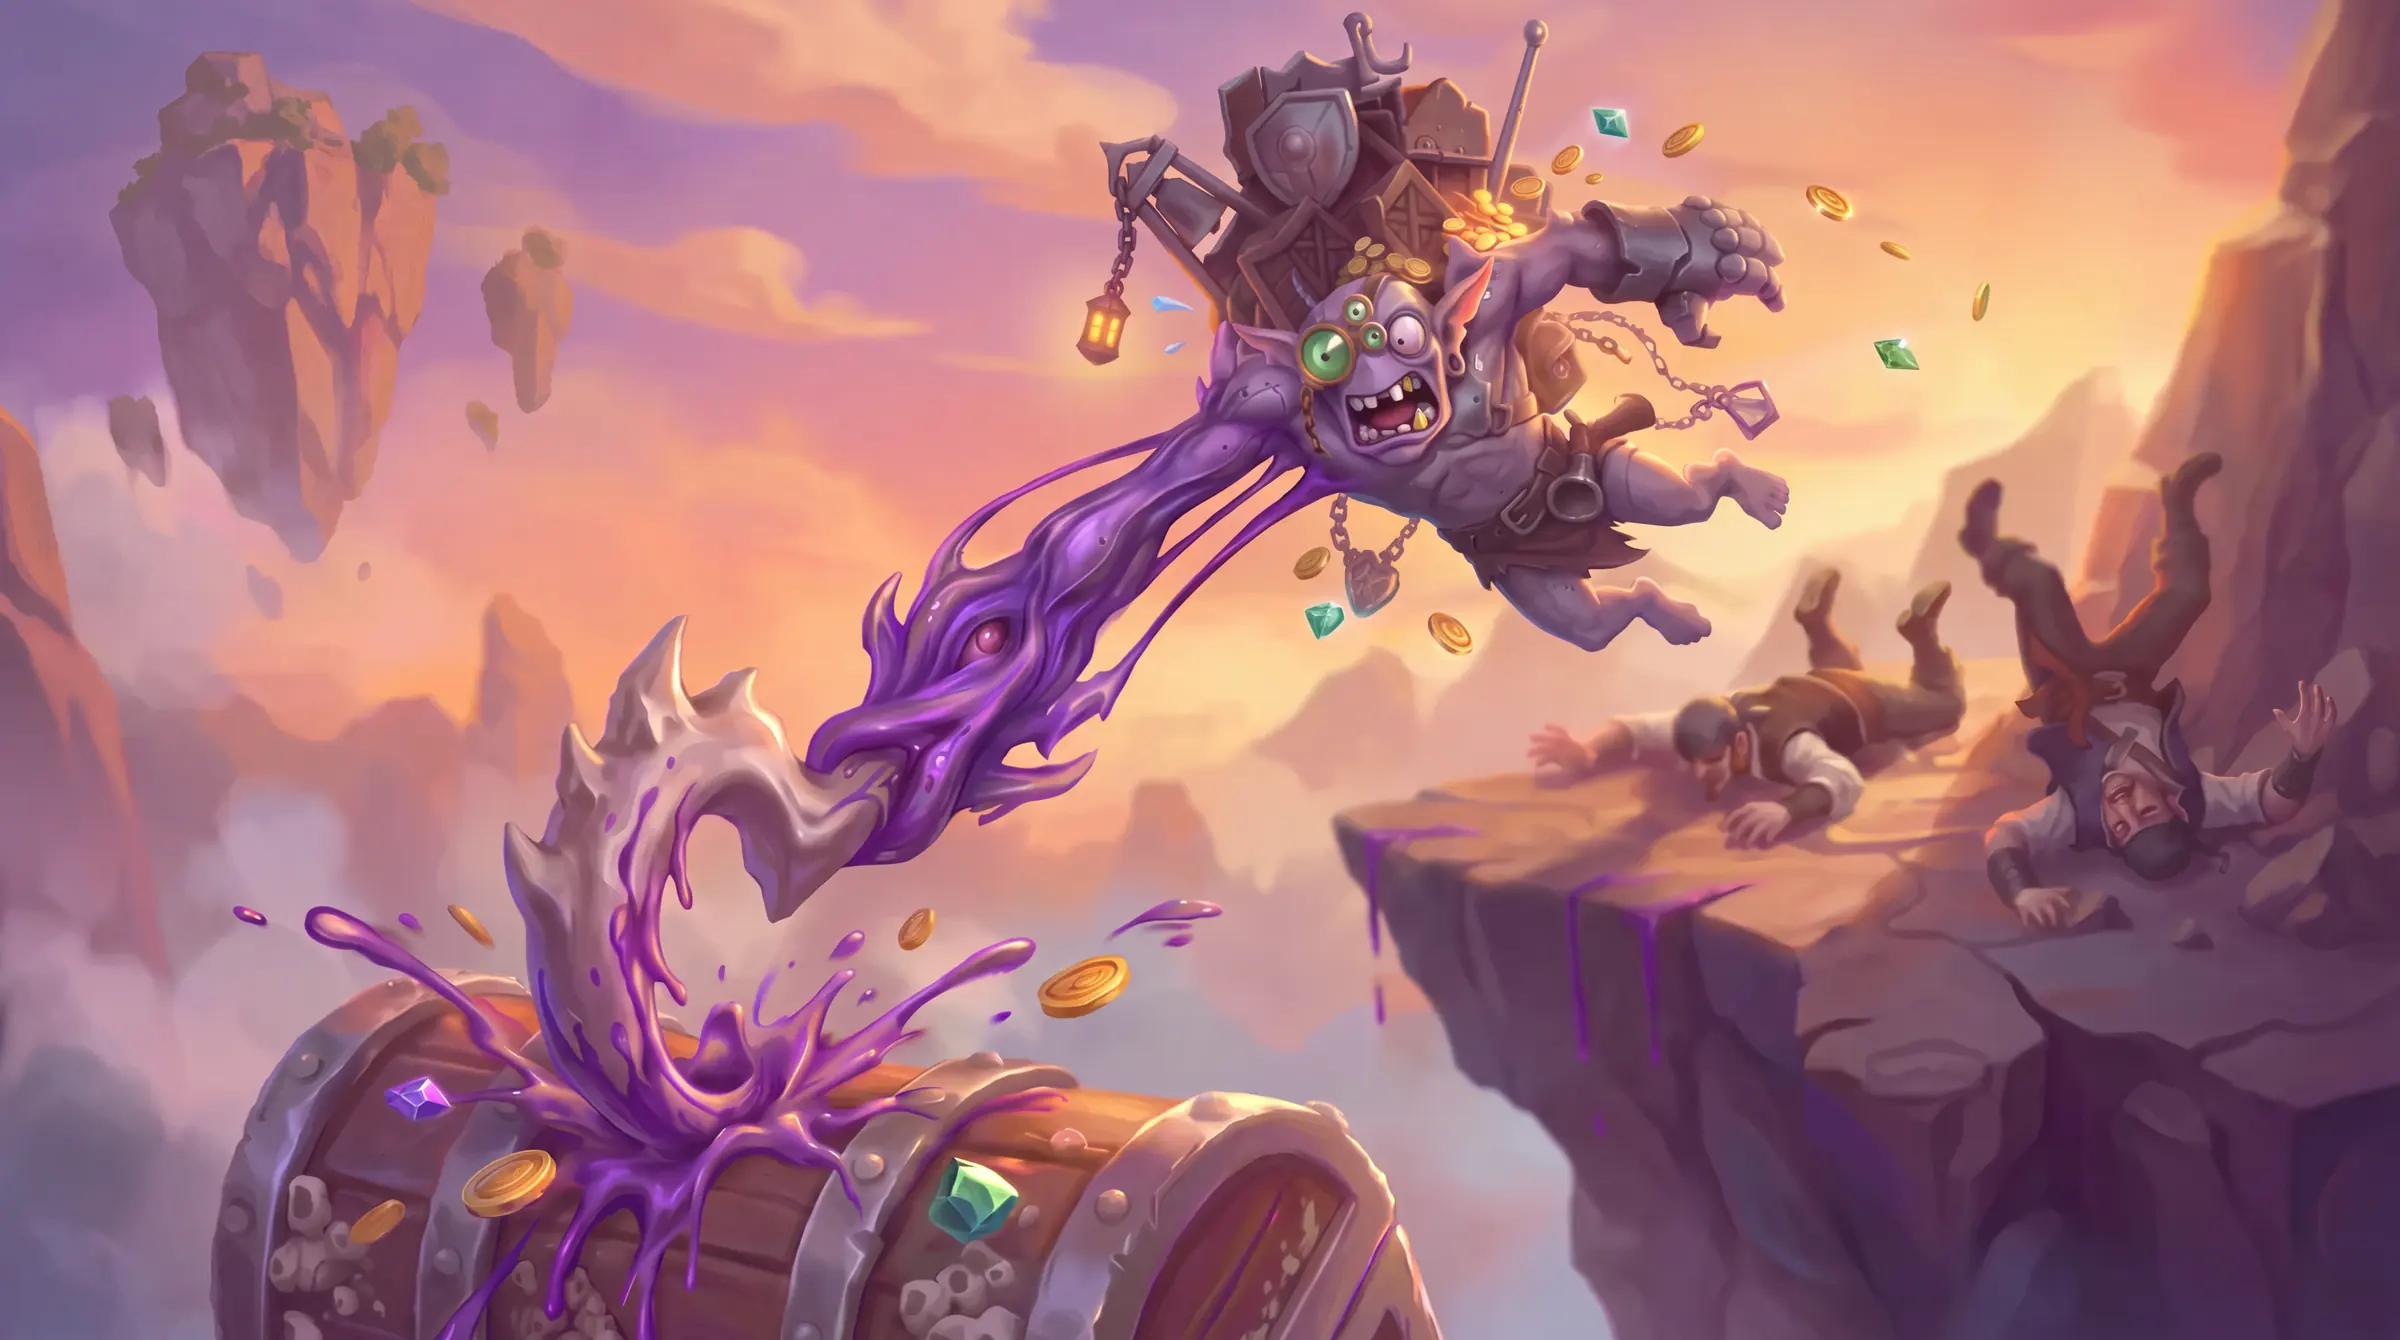
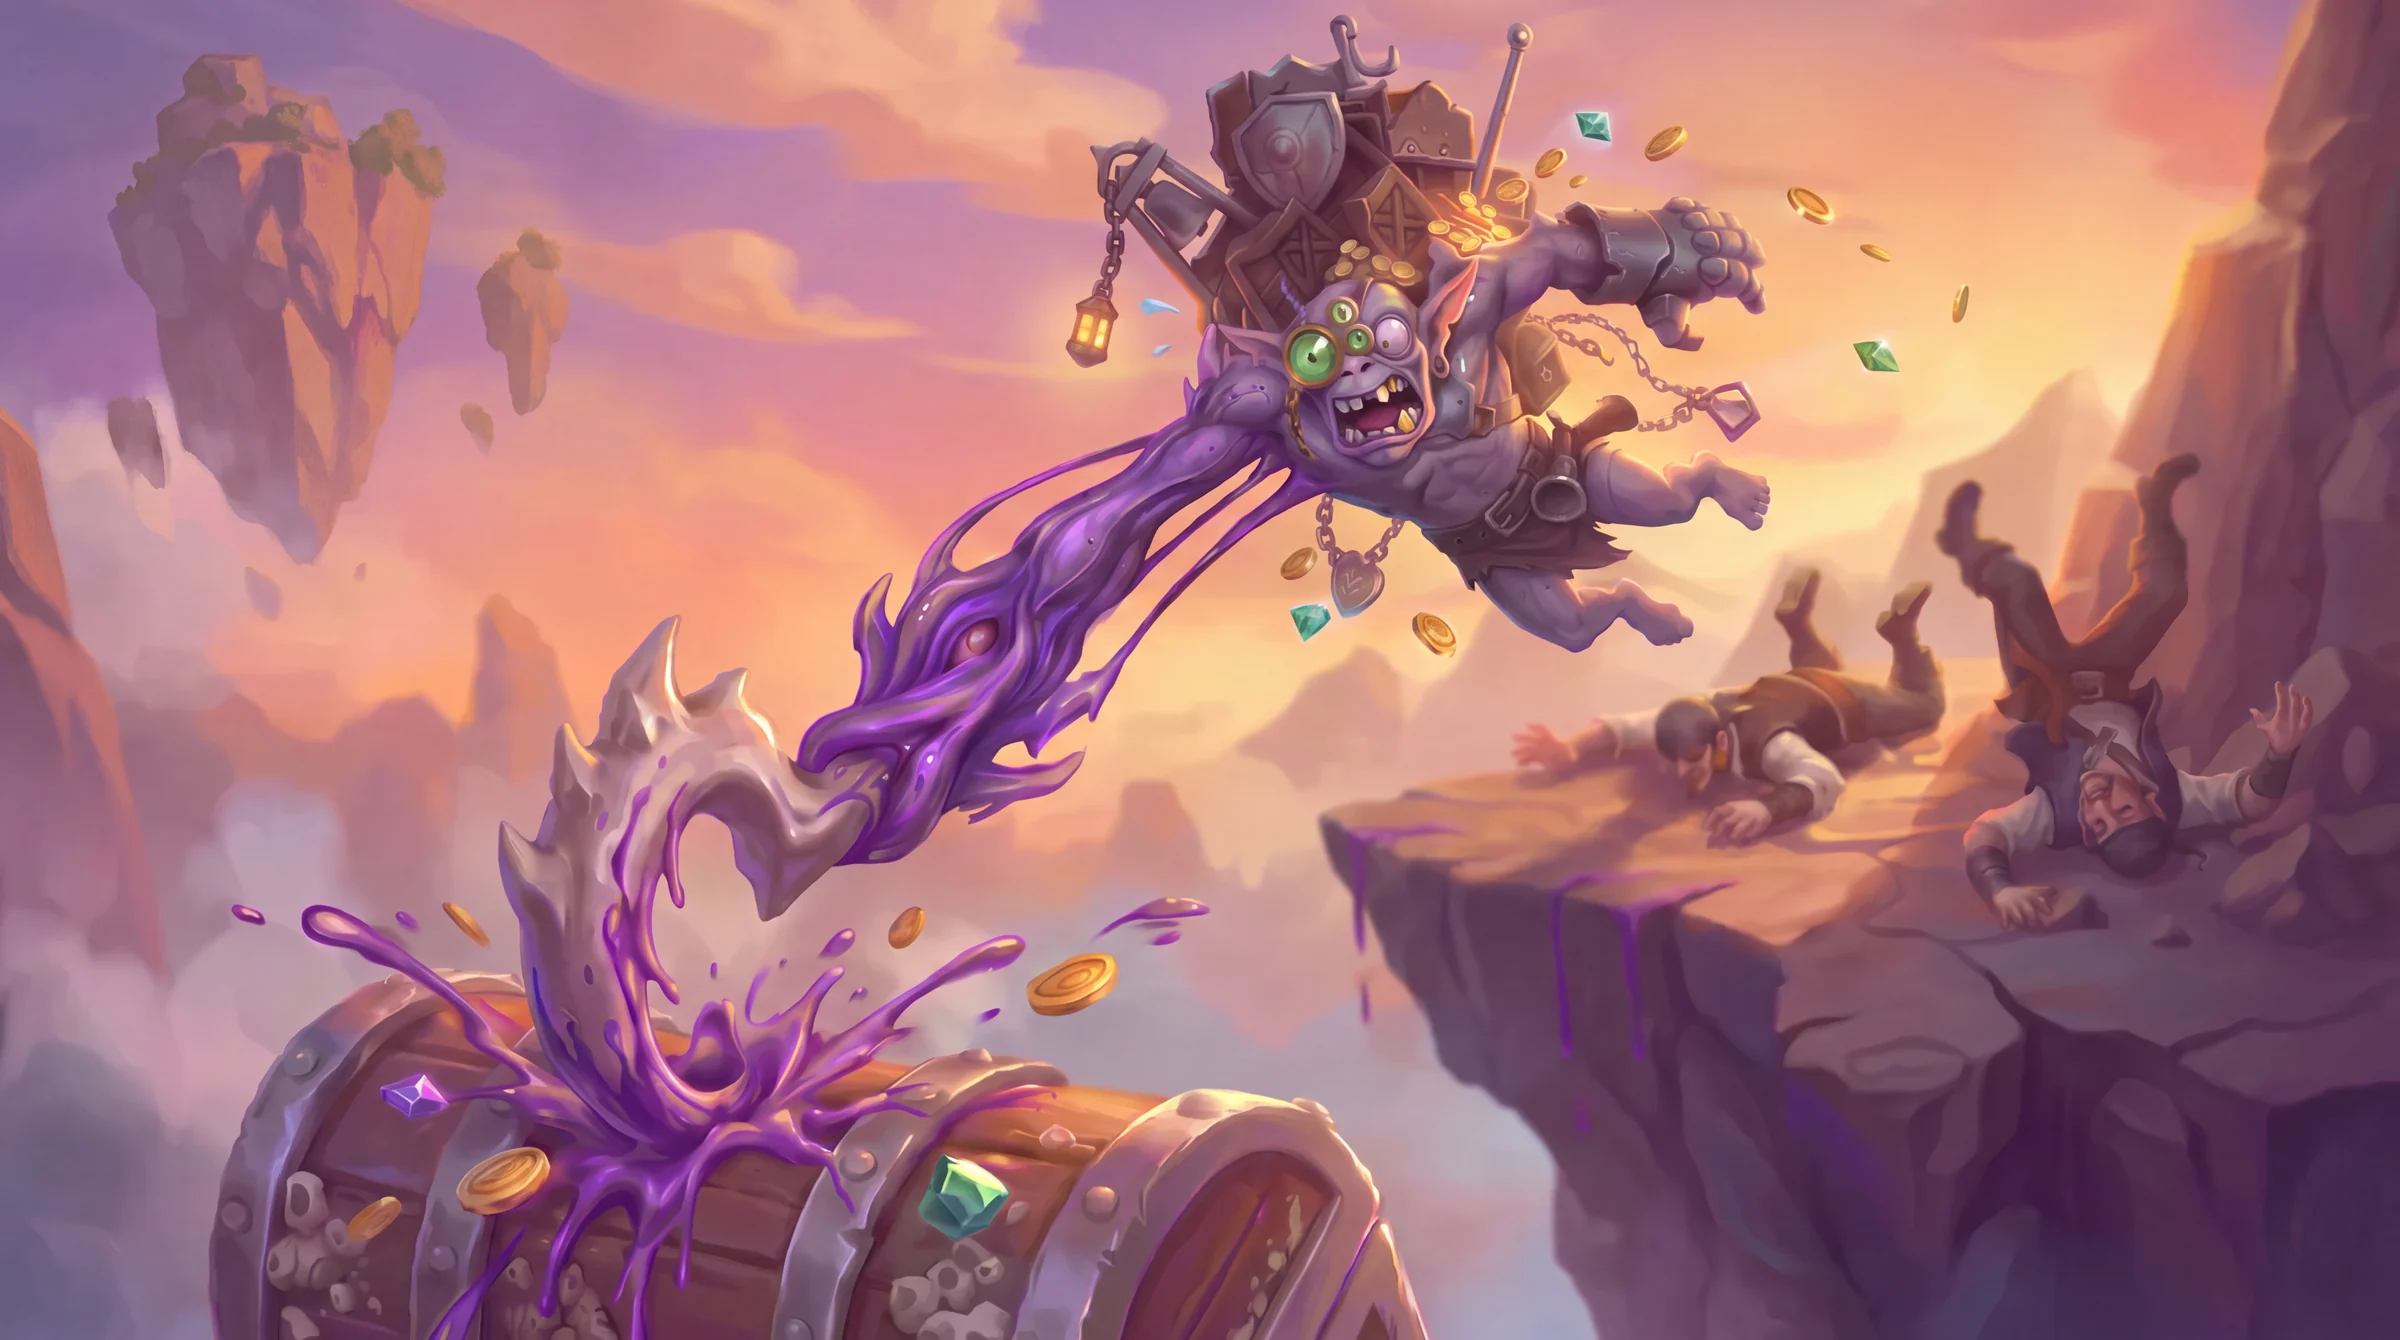
New Grimble splash
Claude-Session: https://claude.ai/code/session_015vSSPmpJoF22Rm1LS1od6V

diff --git a/presskit.html b/presskit.html
@@ -11,7 +11,7 @@
 <link rel="apple-touch-icon" href="/assets/img/apple-touch-icon.png">
 <meta property="og:title" content="Project Boki press kit">
 <meta property="og:image" content="https://projectboki.com/assets/img/og.jpg?v=5">
-<link rel="stylesheet" href="assets/style.css?v=136">
+<link rel="stylesheet" href="assets/style.css?v=137">
 <link rel="canonical" href="https://projectboki.com/presskit.html">
 <link rel="manifest" href="/site.webmanifest">
 </head>
@@ -75,7 +75,7 @@
           <a href="assets/img/hunters/cinder-2400.webp" target="_blank"><img src="assets/img/hunters/cinder-960.webp" alt="Cinder splash art" loading="lazy"><span class="pk-cap">Cinder</span></a>
           <a href="assets/img/hunters/tarek-2400.webp" target="_blank"><img src="assets/img/hunters/tarek-960.webp" alt="Tenzo splash art" loading="lazy"><span class="pk-cap">Tenzo</span></a>
           <a href="assets/img/hunters/ryzz-2400.webp" target="_blank"><img src="assets/img/hunters/ryzz-960.webp" alt="Sparkle splash art" loading="lazy"><span class="pk-cap">Sparkle</span></a>
-          <a href="assets/img/hunters/grimble-2400.webp?v=2026-11-08b" target="_blank"><img src="assets/img/hunters/grimble-960.webp?v=2026-11-08b" alt="Grimble splash art" loading="lazy"><span class="pk-cap">Grimble</span></a>
+          <a href="assets/img/hunters/grimble-2400.webp?v=2026-11-09a" target="_blank"><img src="assets/img/hunters/grimble-960.webp?v=2026-11-09a" alt="Grimble splash art" loading="lazy"><span class="pk-cap">Grimble</span></a>
           <a href="assets/img/hunters/pip-2400.webp" target="_blank"><img src="assets/img/hunters/pip-960.webp" alt="Meeko splash art" loading="lazy"><span class="pk-cap">Meeko</span></a>
           <a href="assets/img/hunters/sable-2400.webp?v=2026-11-08c" target="_blank"><img src="assets/img/hunters/sable-960.webp?v=2026-11-08c" alt="Sable splash art" loading="lazy"><span class="pk-cap">Sable</span></a>
           <a href="assets/img/hunters/lisette-2400.webp" target="_blank"><img src="assets/img/hunters/lisette-960.webp" alt="Lace splash art" loading="lazy"><span class="pk-cap">Lace</span></a>
@@ -117,6 +117,6 @@
   <div class="consent-b"><button class="btn btn-glass btn-sm" type="button" data-no>Decline</button><button class="btn btn-solid btn-sm" type="button" data-yes>Accept</button></div>
 </div>
 
-<script src="assets/site.js?v=121"></script>
+<script src="assets/site.js?v=122"></script>
 </body>
 </html>

diff --git a/index.html b/index.html
@@ -21,7 +21,7 @@
 <link rel="preload" href="assets/fonts/LilitaOne.woff2" as="font" type="font/woff2" crossorigin>
 <link rel="preload" as="image" href="assets/img/wordmark-1280.webp" imagesrcset="assets/img/wordmark-640.webp 640w, assets/img/wordmark-1280.webp 1280w, assets/img/wordmark-2000.webp 2000w" imagesizes="(max-width: 720px) 90vw, 720px">
 
-<link rel="stylesheet" href="assets/style.css?v=136">
+<link rel="stylesheet" href="assets/style.css?v=137">
 <script>
   // Hold the hero until the display font is in, so nothing jumps on load.
   (function (d) {
@@ -232,6 +232,6 @@
   <symbol id="i-play" viewBox="0 0 24 24"><path d="M7 4.5v15a1 1 0 0 0 1.5.86l12.4-7.5a1 1 0 0 0 0-1.72L8.5 3.64A1 1 0 0 0 7 4.5Z"/></symbol>
 </svg>
 
-<script src="assets/site.js?v=122"></script>
+<script src="assets/site.js?v=123"></script>
 </body>
 </html>

diff --git a/privacy.html b/privacy.html
@@ -9,7 +9,7 @@
 <link rel="icon" href="/favicon.ico" sizes="any">
 <link rel="icon" href="/assets/img/favicon.png" type="image/png">
 <link rel="apple-touch-icon" href="/assets/img/apple-touch-icon.png">
-<link rel="stylesheet" href="assets/style.css?v=136">
+<link rel="stylesheet" href="assets/style.css?v=137">
 <link rel="canonical" href="https://projectboki.com/privacy.html">
 <link rel="manifest" href="/site.webmanifest">
 </head>
@@ -71,6 +71,6 @@
   <div class="consent-b"><button class="btn btn-glass btn-sm" type="button" data-no>Decline</button><button class="btn btn-solid btn-sm" type="button" data-yes>Accept</button></div>
 </div>
 
-<script src="assets/site.js?v=121"></script>
+<script src="assets/site.js?v=122"></script>
 </body>
 </html>

diff --git a/assets/site.js b/assets/site.js
@@ -214,7 +214,7 @@ const pick = document.getElementById("h-pick");
 if (pick) {
   const art = document.getElementById("h-art");
   const $ = (id) => document.getElementById(id);
-  const ART_V = "2026-11-08c";
+  const ART_V = "2026-11-09a";
   const src = (id, w) => `assets/img/hunters/${id}-${w}.webp?v=${ART_V}`;
   const set = (id) => `${src(id, 960)} 960w, ${src(id, 1600)} 1600w, ${src(id, 2400)} 2400w`;
   let current = 0;

diff --git a/404.html b/404.html
@@ -7,7 +7,7 @@
 <link rel="icon" href="/favicon.ico" sizes="any">
 <link rel="icon" href="/assets/img/favicon.png" type="image/png">
 <link rel="apple-touch-icon" href="/assets/img/apple-touch-icon.png">
-<link rel="stylesheet" href="/assets/style.css?v=136">
+<link rel="stylesheet" href="/assets/style.css?v=137">
 </head>
 <body>
 <main class="nf">
